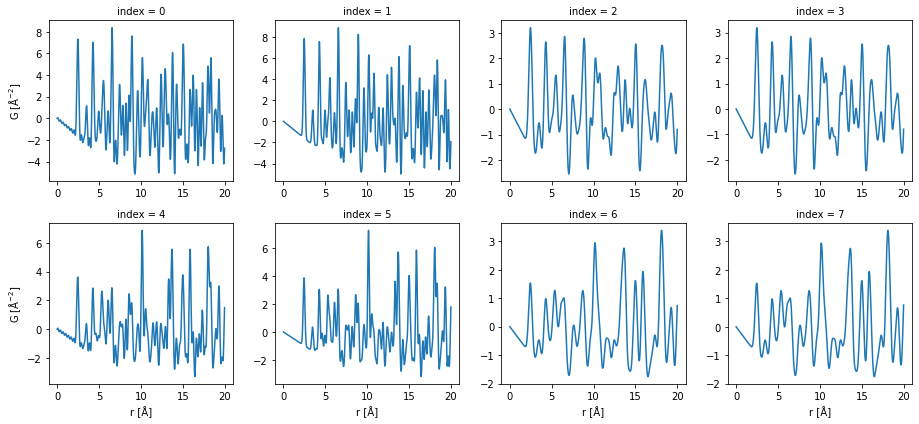
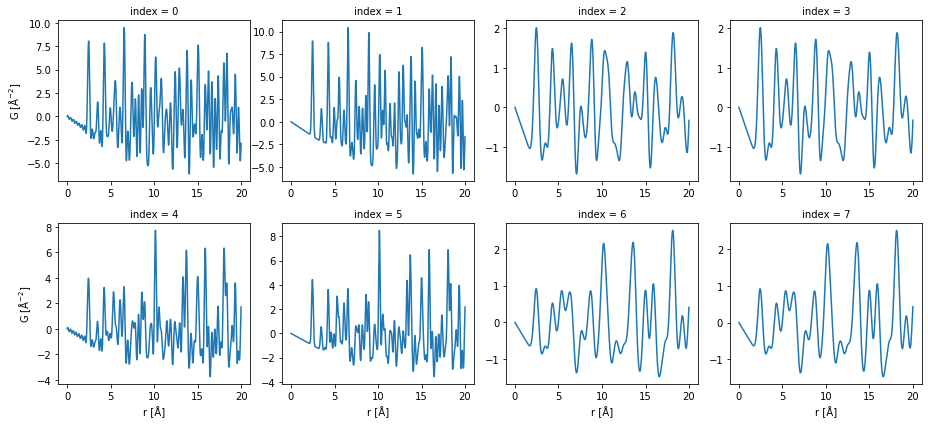
DOC: update the docs

diff --git a/docs/source/usage_cli.rst b/docs/source/usage_cli.rst
@@ -63,7 +63,7 @@ single phase PDF calculation.
      'delta2': [0.0],
      'fracs': [[1.0]],
      'ftype': 'molar',
-     'iso_adp': [0.5],
+     'iso_adp': [0.006],
      'lat_scale': [1.0],
      'qbroad': [0.0],
      'qdamp': [0.0],
@@ -89,10 +89,10 @@ To know the syntax of the CLI, simple run the command below.
 
     [1mNAME[0m
         pdfmix create - Create mixture PDFs using a collection of crystal structures.
-
+    
     [1mSYNOPSIS[0m
         pdfmix create [4mOUTPUT_DIRECTORY[0m <flags>
-
+    
     [1mDESCRIPTION[0m
         The core functionality of the CLI is to generate a folder of PDF data files from a folder of CIF files.
         The PDFs are the linear combination of PDFs calculated from individual CIF files. The coefficients are
@@ -107,11 +107,11 @@ To know the syntax of the CLI, simple run the command below.
         list of numbers. Because it is assumed multiple values will be used in the calculation, the numbers for one
         parameter are stored in a list. Below shows the default configuration of the calculation. In default, one
         "mixture" contains one phase (one CIF file) so it is a single phase PDF calculation.
-
+    
     [1mPOSITIONAL ARGUMENTS[0m
         [1m[4mOUTPUT_DIRECTORY[0m[0m
             The output directory location.
-
+    
     [1mFLAGS[0m
         --input_directory=[4mINPUT_DIRECTORY[0m
             The input directory location, default "./".
@@ -123,7 +123,7 @@ To know the syntax of the CLI, simple run the command below.
             The input file name pattern in the glob pattern style, used in searching, default r"[!.]*.cif".
         Additional flags are accepted.
             The configuration to update.
-
+    
     [1mNOTES[0m
         You can also use flags syntax for POSITIONAL ARGUMENTS
 
@@ -149,13 +149,13 @@ files using the default configuration and save the results in the
 
 .. code:: ipython3
 
-    ! pdfmix create "./pdfs1" "./cifs"
+    ! pdfmix create "./pdfs1" "./cifs" --iso_adp="[0.006]"
 
 
 .. parsed-literal::
 
     Find 3 files in the input directory. Choose 1 files to create a mixture phase. For each mixture, there are 1 sets of fractions, 1 structure parameter sets, 1 calculation parameter sets. In total, there are 3 PDFs to calculate.
-    Progress: 100%|███████████████████████████████████| 3/3 [00:00<00:00,  3.49it/s]
+    Progress: 100%|███████████████████████████████████| 3/3 [00:00<00:00,  7.03it/s]
 
 
 The line below lists the generated PDF data files. There are three
@@ -177,7 +177,7 @@ In python, we load the one PDF data file and show what are inside the
 .. code:: ipython3
 
     import xarray as xr
-
+    
     ds0 = xr.load_dataset("./pdfs1/0.nc")
     print(ds0)
 
@@ -190,11 +190,11 @@ In python, we load the one PDF data file and show what are inside the
       * r          (r) float64 0.0 0.01 0.02 0.03 0.04 ... 19.96 19.97 19.98 19.99
       * phase      (phase) int32 0
     Data variables:
-        G          (r) float64 0.0 -0.001102 -0.002204 ... 1.565 1.769 1.957
+        G          (r) float64 0.0 -0.001102 -0.002204 ... 1.611 1.825 2.021
         structure  (phase) object "# generated using pymatgen\ndata_Cs\n_symmetry...
         fname      (phase) object 'Cs'
         fraction   (phase) float64 1.0
-        iso_adp    float64 0.5
+        iso_adp    float64 0.006
         lat_scale  float64 1.0
         rmin       float64 0.0
         rmax       float64 20.0
@@ -219,7 +219,7 @@ We visualize the PDF data here.
 
 
 
-.. image:: _static/usage_cli_18_0.png
+.. image:: usage_cli_files/usage_cli_18_0.png
 
 
 Use case: create the mixture PDFs
@@ -253,7 +253,7 @@ PDF. Then, there should be 9 PDF calculated in total.
 .. parsed-literal::
 
     Find 3 files in the input directory. Choose 2 files to create a mixture phase. For each mixture, there are 3 sets of fractions, 1 structure parameter sets, 1 calculation parameter sets. In total, there are 9 PDFs to calculate.
-    Progress: 100%|███████████████████████████████████| 9/9 [00:02<00:00,  4.26it/s]
+    Progress: 100%|███████████████████████████████████| 9/9 [00:01<00:00,  8.52it/s]
 
 
 Here, we show the PDFs. Each row is a combination of phase and each
@@ -269,7 +269,7 @@ column is a set of molar fractions.
 
 
 
-.. image:: _static/usage_cli_25_0.png
+.. image:: usage_cli_files/usage_cli_25_0.png
 
 
 Use case: create mixture PDFs using different parameters
@@ -295,13 +295,13 @@ PDFs.
 
 .. code:: ipython3
 
-    ! pdfmix create "./pdfs3" "./cifs" --fracs="[[0.2,0.6,0.2],[0.4,0.2,0.4]]" --iso_adp="[0.4,1.6]" --qmax="[20.0,40.0]"
+    ! pdfmix create "./pdfs3" "./cifs" --fracs="[[0.2,0.6,0.2],[0.4,0.2,0.4]]" --iso_adp="[0.004,0.036]" --qmax="[20.0,40.0]"
 
 
 .. parsed-literal::
 
     Find 3 files in the input directory. Choose 3 files to create a mixture phase. For each mixture, there are 2 sets of fractions, 2 structure parameter sets, 2 calculation parameter sets. In total, there are 8 PDFs to calculate.
-    Progress: 100%|███████████████████████████████████| 8/8 [00:05<00:00,  1.55it/s]
+    Progress: 100%|███████████████████████████████████| 8/8 [00:01<00:00,  6.04it/s]
 
 
 Here, we show the PDFs. One row is the a combination of molar fractions.
@@ -317,7 +317,7 @@ Each column is a combination of the “iso_adp” and “qmax” parameters.
 
 
 
-.. image:: _static/usage_cli_32_0.png
+.. image:: usage_cli_files/usage_cli_32_0.png
 
 
 Use case: use configuration file
@@ -348,7 +348,7 @@ inside to create our own configuration.
     - - 1.0
     ftype: molar
     iso_adp:
-    - 0.5
+    - 0.006
     lat_scale:
     - 1.0
     rmin:
@@ -382,7 +382,7 @@ command. Here, in this example, we didn’t change any parameters.
 .. parsed-literal::
 
     Find 3 files in the input directory. Choose 1 files to create a mixture phase. For each mixture, there are 1 sets of fractions, 1 structure parameter sets, 1 calculation parameter sets. In total, there are 3 PDFs to calculate.
-    Progress: 100%|███████████████████████████████████| 3/3 [00:00<00:00,  6.80it/s]
+    Progress: 100%|███████████████████████████████████| 3/3 [00:00<00:00,  8.78it/s]
 
 
 As we expect, the results are the same as the first run we made in the
@@ -398,7 +398,7 @@ first use case.
 
 
 
-.. image:: _static/usage_cli_41_0.png
+.. image:: usage_cli_files/usage_cli_41_0.png
 
 
 We can use the configuration file together with the parameters in
